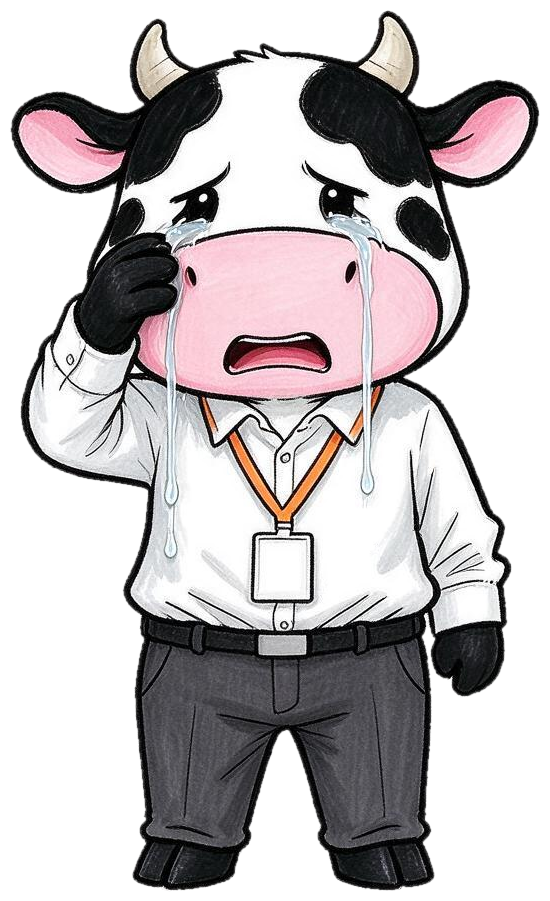
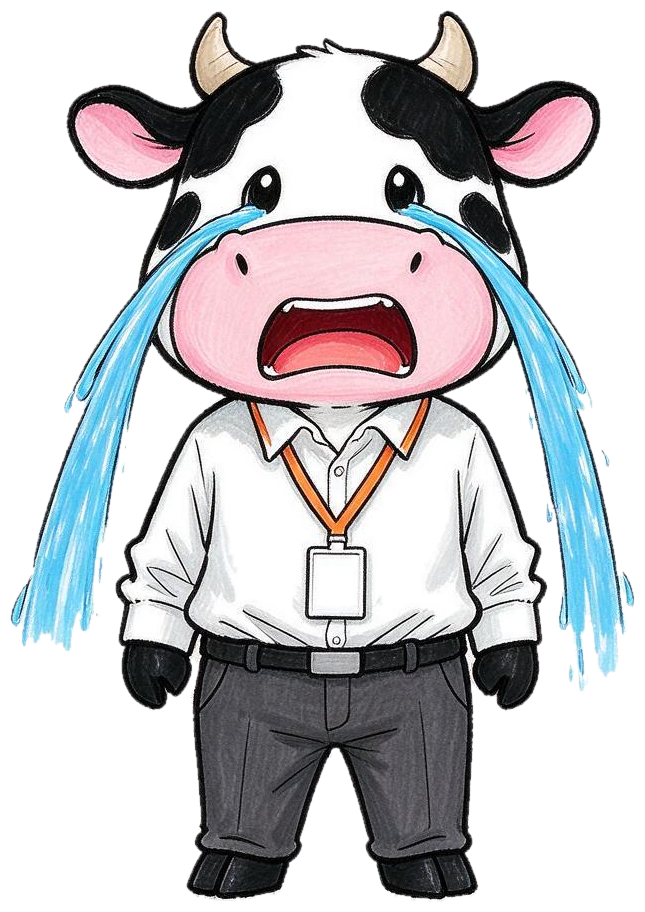
重画 7 个眼睛有问题的姿势

diff --git a/aniu/make_assets.py b/aniu/make_assets.py
@@ -38,16 +38,16 @@ POSES = {  # 每张图从左到右三个姿势，名字按顺序
                "①抱着笔记本电脑，弯腰驼背，有黑眼圈，很疲惫；②面向观众笑着挥手打招呼；③双手摊开耸肩，表情无奈"),
 }
 SINGLE = {  # 一张图只画一个姿势：不用切分，也不会互相串细节
-    "pose_money": "双手捧着一叠钞票，眯眼开心地笑",
-    "pose_cry": "大哭，眼泪像两条小瀑布喷出来，一只手抹眼泪",
-    "pose_angry": "双手叉腰，气得跺脚，脸涨红，头顶冒出一小团黑烟",
+    "pose_money": "双手捧着一叠钞票，睁大眼睛开心地笑",
+    "pose_cry": "张嘴大哭，两只眼睛下面各有一条很粗的蓝色泪水像小瀑布一样往外喷，非常夸张",
+    "pose_angry": "双手叉腰，眉毛倒竖，两颊涨得通红，头顶冒出一团黑色的生气烟雾，很生气",
     "pose_run": "一手拎着黑色公文包向右侧奔跑，身体前倾，很着急，像在赶地铁",
     "pose_type": "坐在一把办公椅上，面前一台打开的笔记本电脑放在腿上，认真打字",
-    "pose_lie": "仰面躺在地上伸展四肢，闭眼满足地微笑，像在躺平",
-    "pose_thumb": "竖起一只大拇指点赞，眨一只眼，自信微笑",
+    "pose_lie": "仰面躺在地上伸展四肢，睁着眼满足地微笑，像在躺平",
+    "pose_thumb": "竖起一只大拇指点赞，自信微笑",
     "pose_facepalm": "一只手捂住脸，很无语、很尴尬",
     "pose_piggy": "双手抱着一个粉色存钱罐，满脸珍惜",
-    "pose_phone": "双手拿着手机看屏幕，被吓到，眼睛瞪大",
+    "pose_phone": "双手拿着手机看屏幕，被吓到：眼睛瞪得又圆又大，嘴巴张成O形，头顶冒出三条惊吓线",
     "pose_stop": "向前伸直一只手掌做“停”的手势，表情严肃认真",
 }
 PROPS = ["piggy", "moneybag", "coin", "calc", "calendar", "house",
@@ -63,7 +63,7 @@ def jobs():
         j[name] = (SHEET, f"{STYLE}\n{ANIU}\n{SAME}\n同一张图从左到右并排画三个互不接触的全身姿势，彼此之间留出大片空白：{desc}。"
                           "不要写任何文字。")
     for name, desc in SINGLE.items():
-        j[name] = (SHEET, f"{STYLE}\n{ANIU}\n{SAME}\n只画一个全身姿势，居中，四周留白，不画尾巴：{desc}。不要写任何文字。")
+        j[name] = (SHEET, f"{STYLE}\n{ANIU}\n{SAME}\n只画一个全身姿势，居中，四周留白，不画尾巴，两只眼睛都要清楚可见（黑色豆豆眼带白色高光，眼睛周围是白色皮毛，黑色斑块不要盖住眼睛）：{desc}。不要写任何文字。")
     j["props"] = (None, f"{STYLE}\n道具素材表：排成整齐的3行4列网格，每个物品单独居中在自己的格子里，物品之间留大量空白、互不重叠，"
                         f"按从左到右、从上到下依次是：{PROP_DESC}。除了¥符号不要写任何文字，不要画格子线。")
     return j
